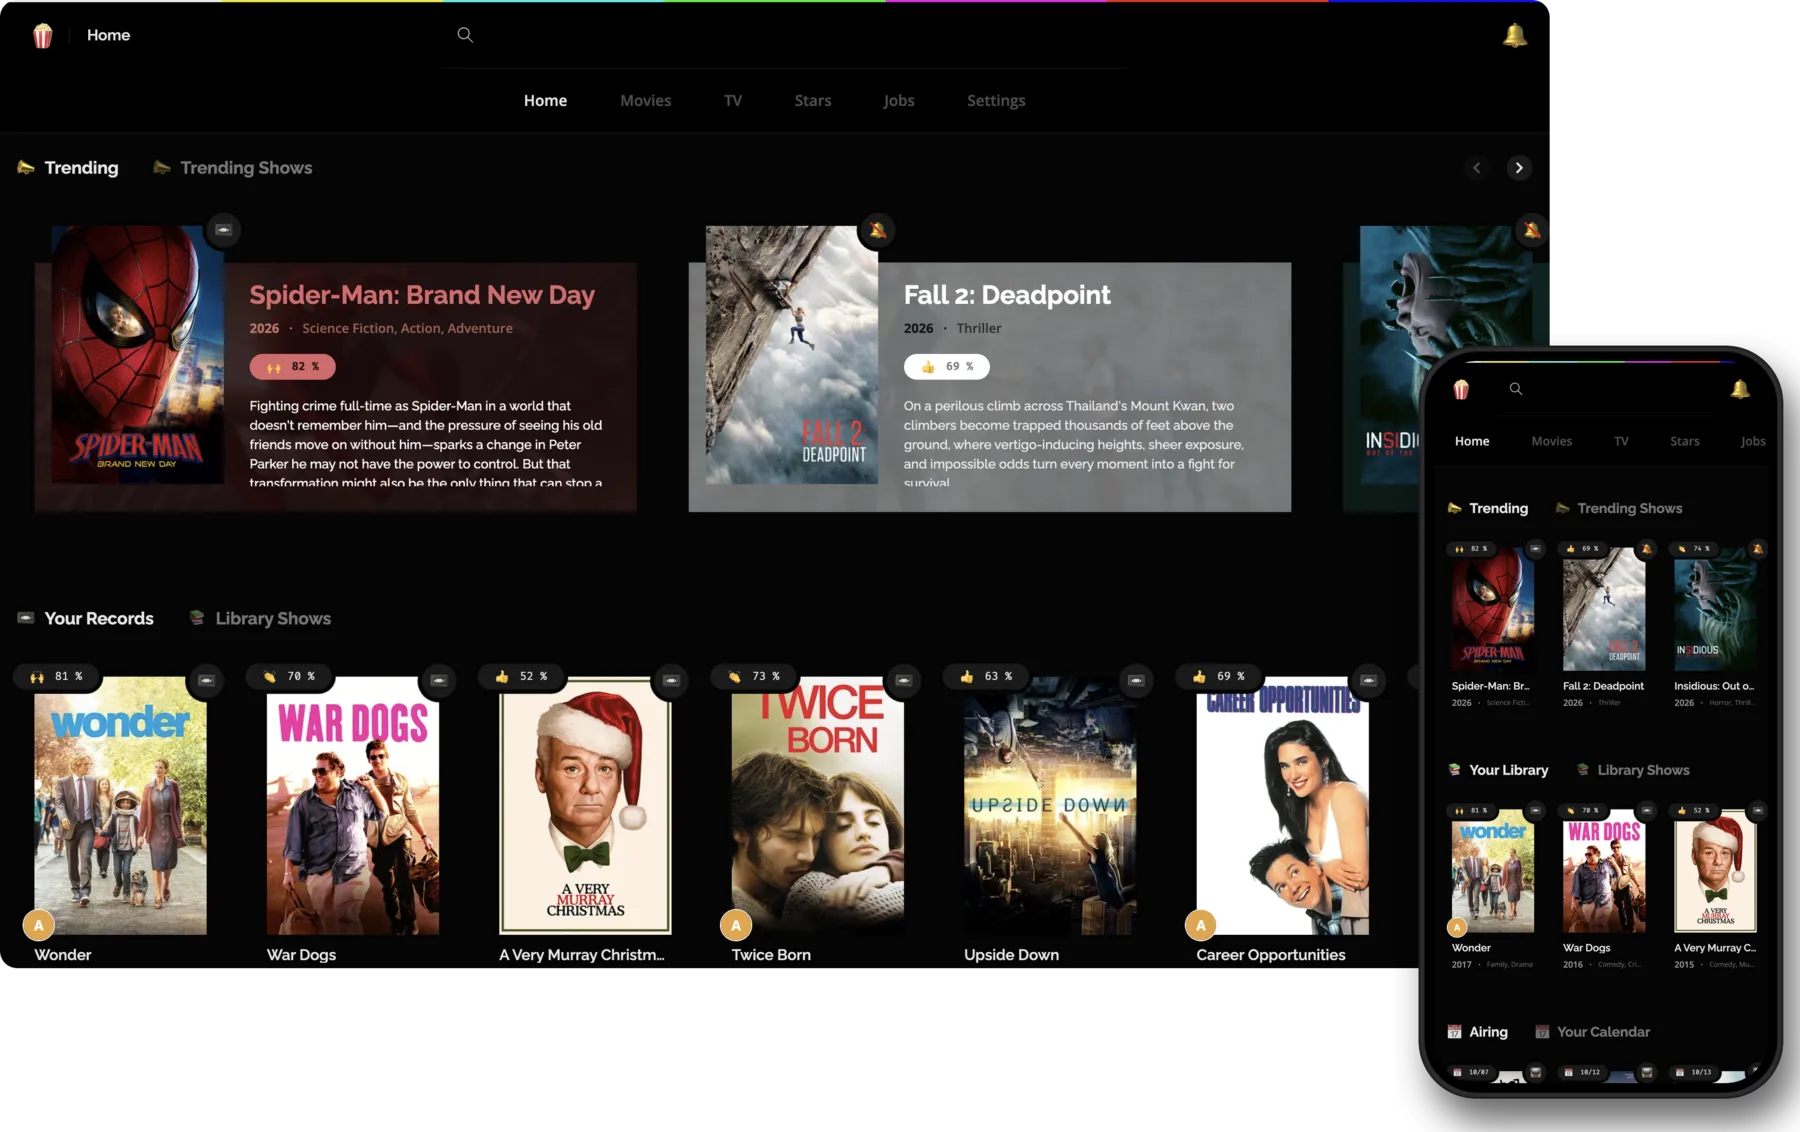
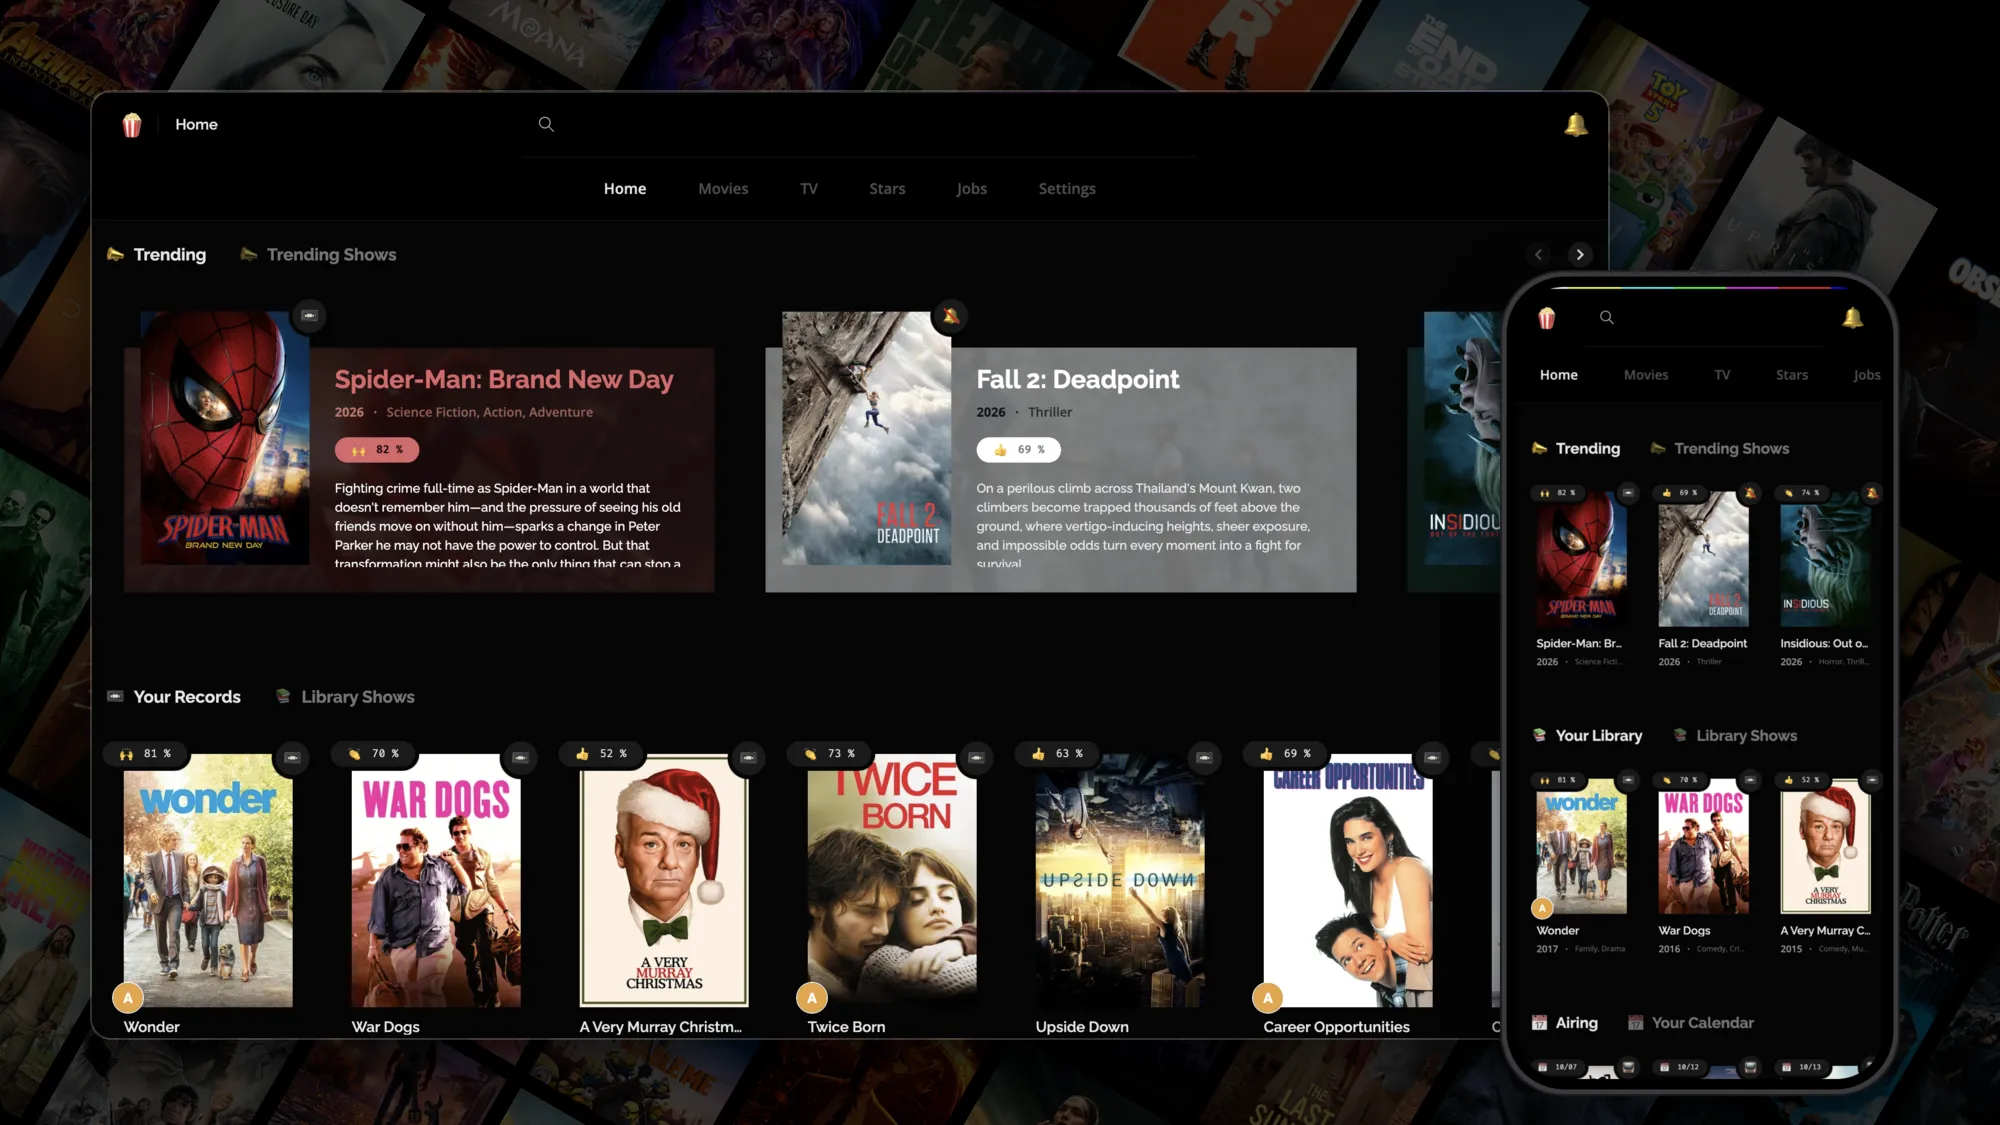
docs(readme): stack one tile per feature, screens on a poster wall with their details magnified

diff --git a/README.md b/README.md
@@ -1,11 +1,13 @@
 <p align="center">
-  <img src="apps/web/src/assets/favicon-alt-full.png" width="112" alt="">
+  <picture>
+    <source media="(prefers-color-scheme: dark)" srcset="docs/assets/readme/logo-dark.webp">
+    <img src="docs/assets/readme/logo-light.webp" width="240" alt="Sensorr">
+  </picture>
 </p>
 
-<h1 align="center">Sensorr</h1>
-
 <p align="center">
-  🍿📼 Your Friendly Digital Video Recorder. Think VCR but in modern times.
+  <b>Your Friendly Digital Video Recorder.</b><br>
+  Think VCR, but in modern times.
 </p>
 
 <p align="center">
@@ -17,105 +19,68 @@
 </p>
 
 <p align="center">
-  <img src="docs/assets/readme/hero.webp" alt="Sensorr's Home on a desktop browser and on an iPhone">
+  <img src="docs/assets/readme/hero.webp" width="100%" alt="Sensorr's Home on a desktop browser and on an iPhone">
 </p>
 
-You tell Sensorr which movies and TV shows you want. It searches your Torznab indexers on a schedule, ranks every release it finds against your own rules, and drops the winner into the folder your download client watches. Then it keeps going: it looks for a better or a lighter version of what you already own, turns your friends' Plex watchlists into requests, and shows you what's coming from the people you follow.
+<p align="center">
+  🎬 Wish &nbsp;→&nbsp; 🔎 Search &nbsp;→&nbsp; ⚖ Rank &nbsp;→&nbsp; 📥 Grab &nbsp;→&nbsp; ✨ Refine
+</p>
 
-It is one app where you would otherwise run Radarr, Sonarr and Overseerr side by side, built for one person hosting their own library at home.
+<p align="center">
+  Sensorr watches your indexers for the movies and shows you want,<br>
+  picks the best release by your rules, and hands it to your download client.
+</p>
 
-**[Try the demo](https://thcolin.github.io/sensorr/)**, login `demo` / `demo`. It runs in your browser, on TMDB's movies and shows with made-up libraries, releases and jobs: accept a proposal, follow a show, search an indexer, and your changes stay in this browser until you reset them. Jobs, Plex, friends and mails need Sensorr running on your own server.
+### Movies and TV, together
 
-<table>
-  <tr>
-    <td width="42%">
+One library for both, with the same rules and the same screens. No Radarr next to Sonarr.
 
-### Movies and series, one app
+<img src="docs/assets/readme/movies-tv.webp" width="100%" alt="The movie library and the TV library">
 
-One library for both, with the same screens, the same policies and the same jobs. Home, Discover, Trending, Calendar and Requests each have a movie side and a show side, one tab apart.
+### Whole series, seasons, episodes
 
-</td>
-    <td width="58%"><img src="docs/assets/readme/one-app.webp" alt="Home, with Trending and Trending Shows, Your Records and Library Shows"></td>
-  </tr>
-  <tr>
-    <td width="58%"><img src="docs/assets/readme/seasons.webp" alt="A show page listing its seasons and the files of each episode"></td>
-    <td width="42%">
+Follow a show, a season or a single episode. Sensorr grabs the whole pack when it can, episode by episode when it can't.
 
-### A whole series, a season, an episode
-
-Follow a show, one season or one episode. An ended show you own nothing of is searched as a complete pack first, then season by season, then episode by episode. Finished files are hard linked into your shows library, so your download client keeps seeding and Plex picks them up.
-
-</td>
-  </tr>
-  <tr>
-    <td width="42%">
+<img src="docs/assets/readme/seasons.webp" width="100%" alt="A show page with a season pack to accept, and the files of each episode">
 
 ### Policies, not quality profiles
 
-Seven axes, source, encoding, resolution, language, dub, flags and indexer, each split into `avoid`, `prefer` and `require`. Drag the tags to rank them, and the sandbox ranks a set of sample releases with your policy as you edit it.
+Say what you avoid, what you prefer and what you require. The sandbox shows what Sensorr would pick.
 
-</td>
-    <td width="58%"><img src="docs/assets/readme/policies.webp" alt="A policy's rules, and its sandbox ranking sample releases"></td>
-  </tr>
-  <tr>
-    <td width="58%"><img src="docs/assets/readme/swaps.webp" alt="The Swaps screen, each movie with what changes and the disk space at stake"></td>
-    <td width="42%">
+<img src="docs/assets/readme/policies.webp" width="100%" alt="A policy's rules, and the releases its sandbox ranks first">
 
 ### Swaps: Refine and Shrink
 
-Sensorr keeps working once a movie is in your library. `refine` looks for a release closer to your policy, `shrink` for a lighter one that loses nothing. Each swap shows what changes, language, resolution, source, codec, and the space it frees or costs. Accept it, and with cleanup on, the old file leaves Plex once the new one has landed.
+Already own it? `refine` finds a better version, `shrink` a lighter one. You see what changes, and the space it frees.
 
-</td>
-  </tr>
-  <tr>
-    <td width="42%">
+<img src="docs/assets/readme/swaps.webp" width="100%" alt="The Swaps screen, the space each command frees, and what changes for one movie">
 
-### Follow people, see what's coming
+### Follow people
 
-Follow a director, an actor or a composer, and their next films land in a calendar, month by month. The shows you follow get a calendar of their episodes.
+Follow a director or an actor, and their next films land in your calendar.
 
-</td>
-    <td width="58%"><img src="docs/assets/readme/stars-calendar.webp" alt="The calendar of the people you follow"></td>
-  </tr>
-  <tr>
-    <td width="58%"><img src="docs/assets/readme/wrapped.webp" alt="A friend's wrapped, as a TV guide"></td>
-    <td width="42%">
+<img src="docs/assets/readme/people.webp" width="100%" alt="A director you follow, and the calendar of the people you follow">
 
-### Friends: requests and a wrapped
+### Friends
 
-A friend links their Plex account with a code, and the movies and shows on their Plex watchlist become requests you accept or ignore. They get a mail once a week with what reached Plex, and a wrapped of their year on your server, in five looks.
+Their Plex watchlists become requests you accept or ignore. Each year, they get a wrapped of what they watched on your server.
 
-</td>
-  </tr>
-  <tr>
-    <td width="42%">
+<img src="docs/assets/readme/friends.webp" width="100%" alt="Requests from friends, and a friend's wrapped">
 
-### Notifications
+### In your pocket
 
-A web push when a job grabs a release, proposes one, finds a movie missing from Plex or picks up a request. Accept or refuse a proposal from the notification itself.
+Install it on your phone, and accept a proposal right from its notification.
 
-</td>
-    <td width="58%"><img src="docs/assets/readme/notifications.webp" alt="Notifications, with proposals to accept or refuse"></td>
-  </tr>
-  <tr>
-    <td width="58%" align="center"><img src="docs/assets/readme/mobile.webp" width="300" alt="Sensorr's Home on an iPhone"></td>
-    <td width="42%">
+<img src="docs/assets/readme/phone.webp" width="100%" alt="Sensorr on an iPhone, and a notification with Accept and Refuse">
 
-### On your phone
-
-Sensorr is a PWA: add it to your home screen from Safari or Chrome, and it opens like an app, with its push notifications.
-
-</td>
-  </tr>
-</table>
+**[Try the demo](https://thcolin.github.io/sensorr/)**, login `demo` / `demo`. It runs in your browser on made-up libraries, and your changes stay there until you reset them.
 
 ### And also
 
-- **Plex in sync.** `sync` reads what Plex holds, and a movie a friend reports from Plex is searched again, its replacement proposed to you.
-- **Coming from Sonarr or Sensorr 0.x.** `migrate sonarr` takes over your series, what Sonarr follows per season and per episode, and the folder of each show. A 0.x dump is imported from the onboarding.
-- **Magnet links.** An indexer that only gives magnet links gets its movie releases written as `.magnet` files, for a download client that reads them.
-- **Backup and update from the app.** *Settings › Backup* writes and imports dumps of your library, weekly once turned on. *Settings › Update* shows what each channel offers, and updates the stack with the `updater` profile on.
-- **English and French.** The interface, the mails and the wrapped.
+- **Plex in sync.** A movie a friend reports from Plex is searched again.
+- **Coming from Sonarr.** `migrate sonarr` takes over your series as Sonarr follows them.
+- **Backups and updates** from *Settings*, with a weekly dump once turned on.
+- **English and French**, for the interface, the mails and the wrapped.
 
 # Install
 
